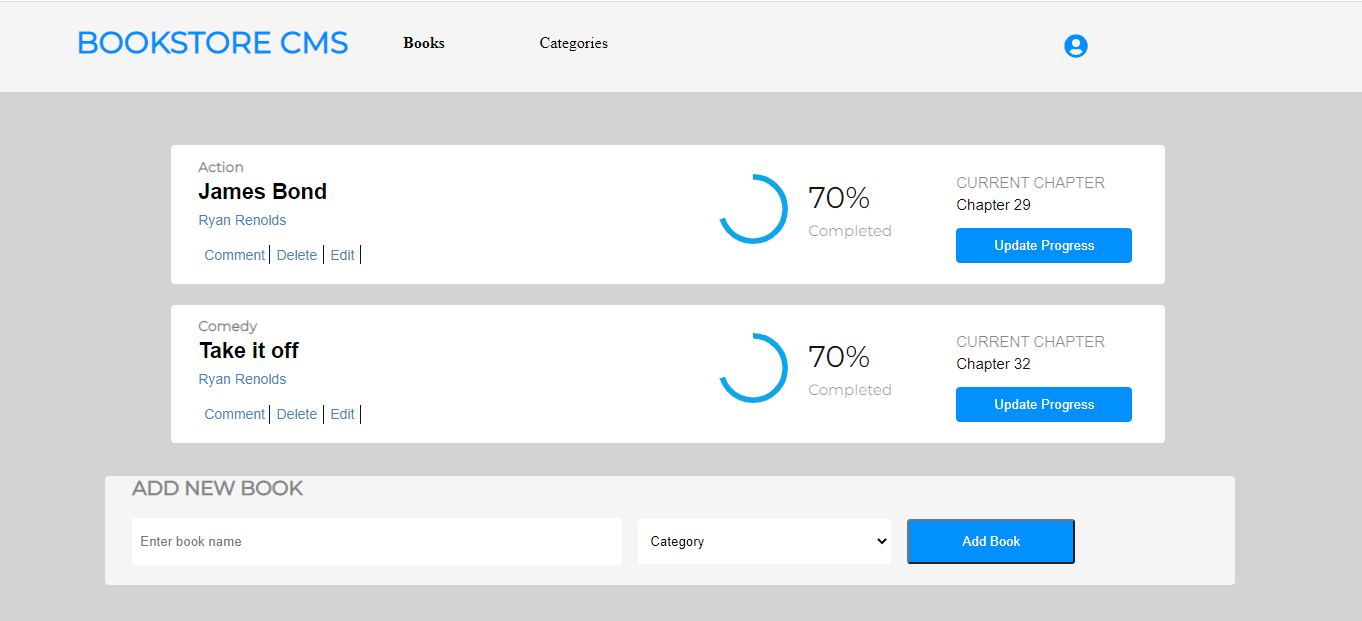
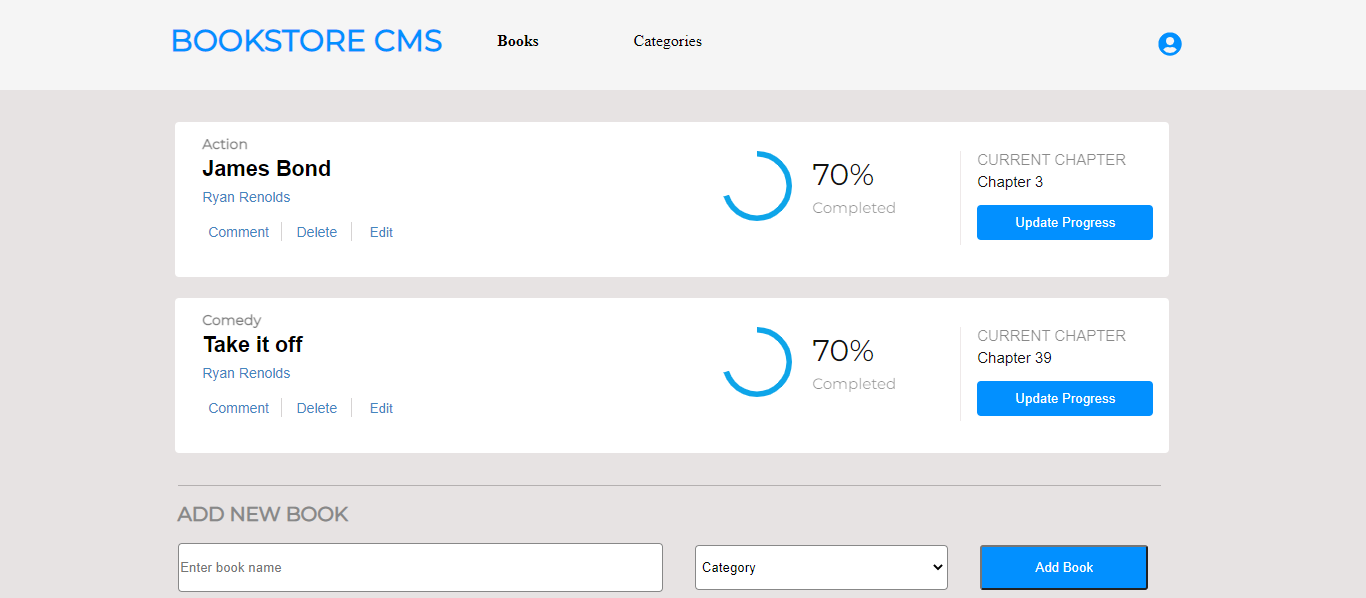
Make required changes

diff --git a/src/index.css b/src/index.css
@@ -88,8 +88,8 @@ a {
   border-radius: 4px;
   border: solid 1px #888;
   background-color: #fff;
-  margin-right: 2.2rem;
-  padding-left: 0.5rem;
+  margin-right: 2rem;
+  padding-left: 0.1rem;
 }
 
 .shadow {
@@ -142,6 +142,7 @@ a {
   border: none;
   cursor: pointer;
   background-color: white;
+  color: #4386bf;
 }
 
 .author {
@@ -313,7 +314,7 @@ a {
   border: solid 1px var(--white-two);
 }
 
-@media (min-width: 1442px) {
+@media (min-width: 1441px) {
   .header {
     margin-left: 1%;
   }
@@ -328,8 +329,8 @@ a {
   }
 
   .Lesson-Pane2 {
-    margin-right: 10rem;
-    padding-right: 4rem;
+    margin-right: 9rem;
+    padding-right: 3rem;
   }
 
   .updateOne {
